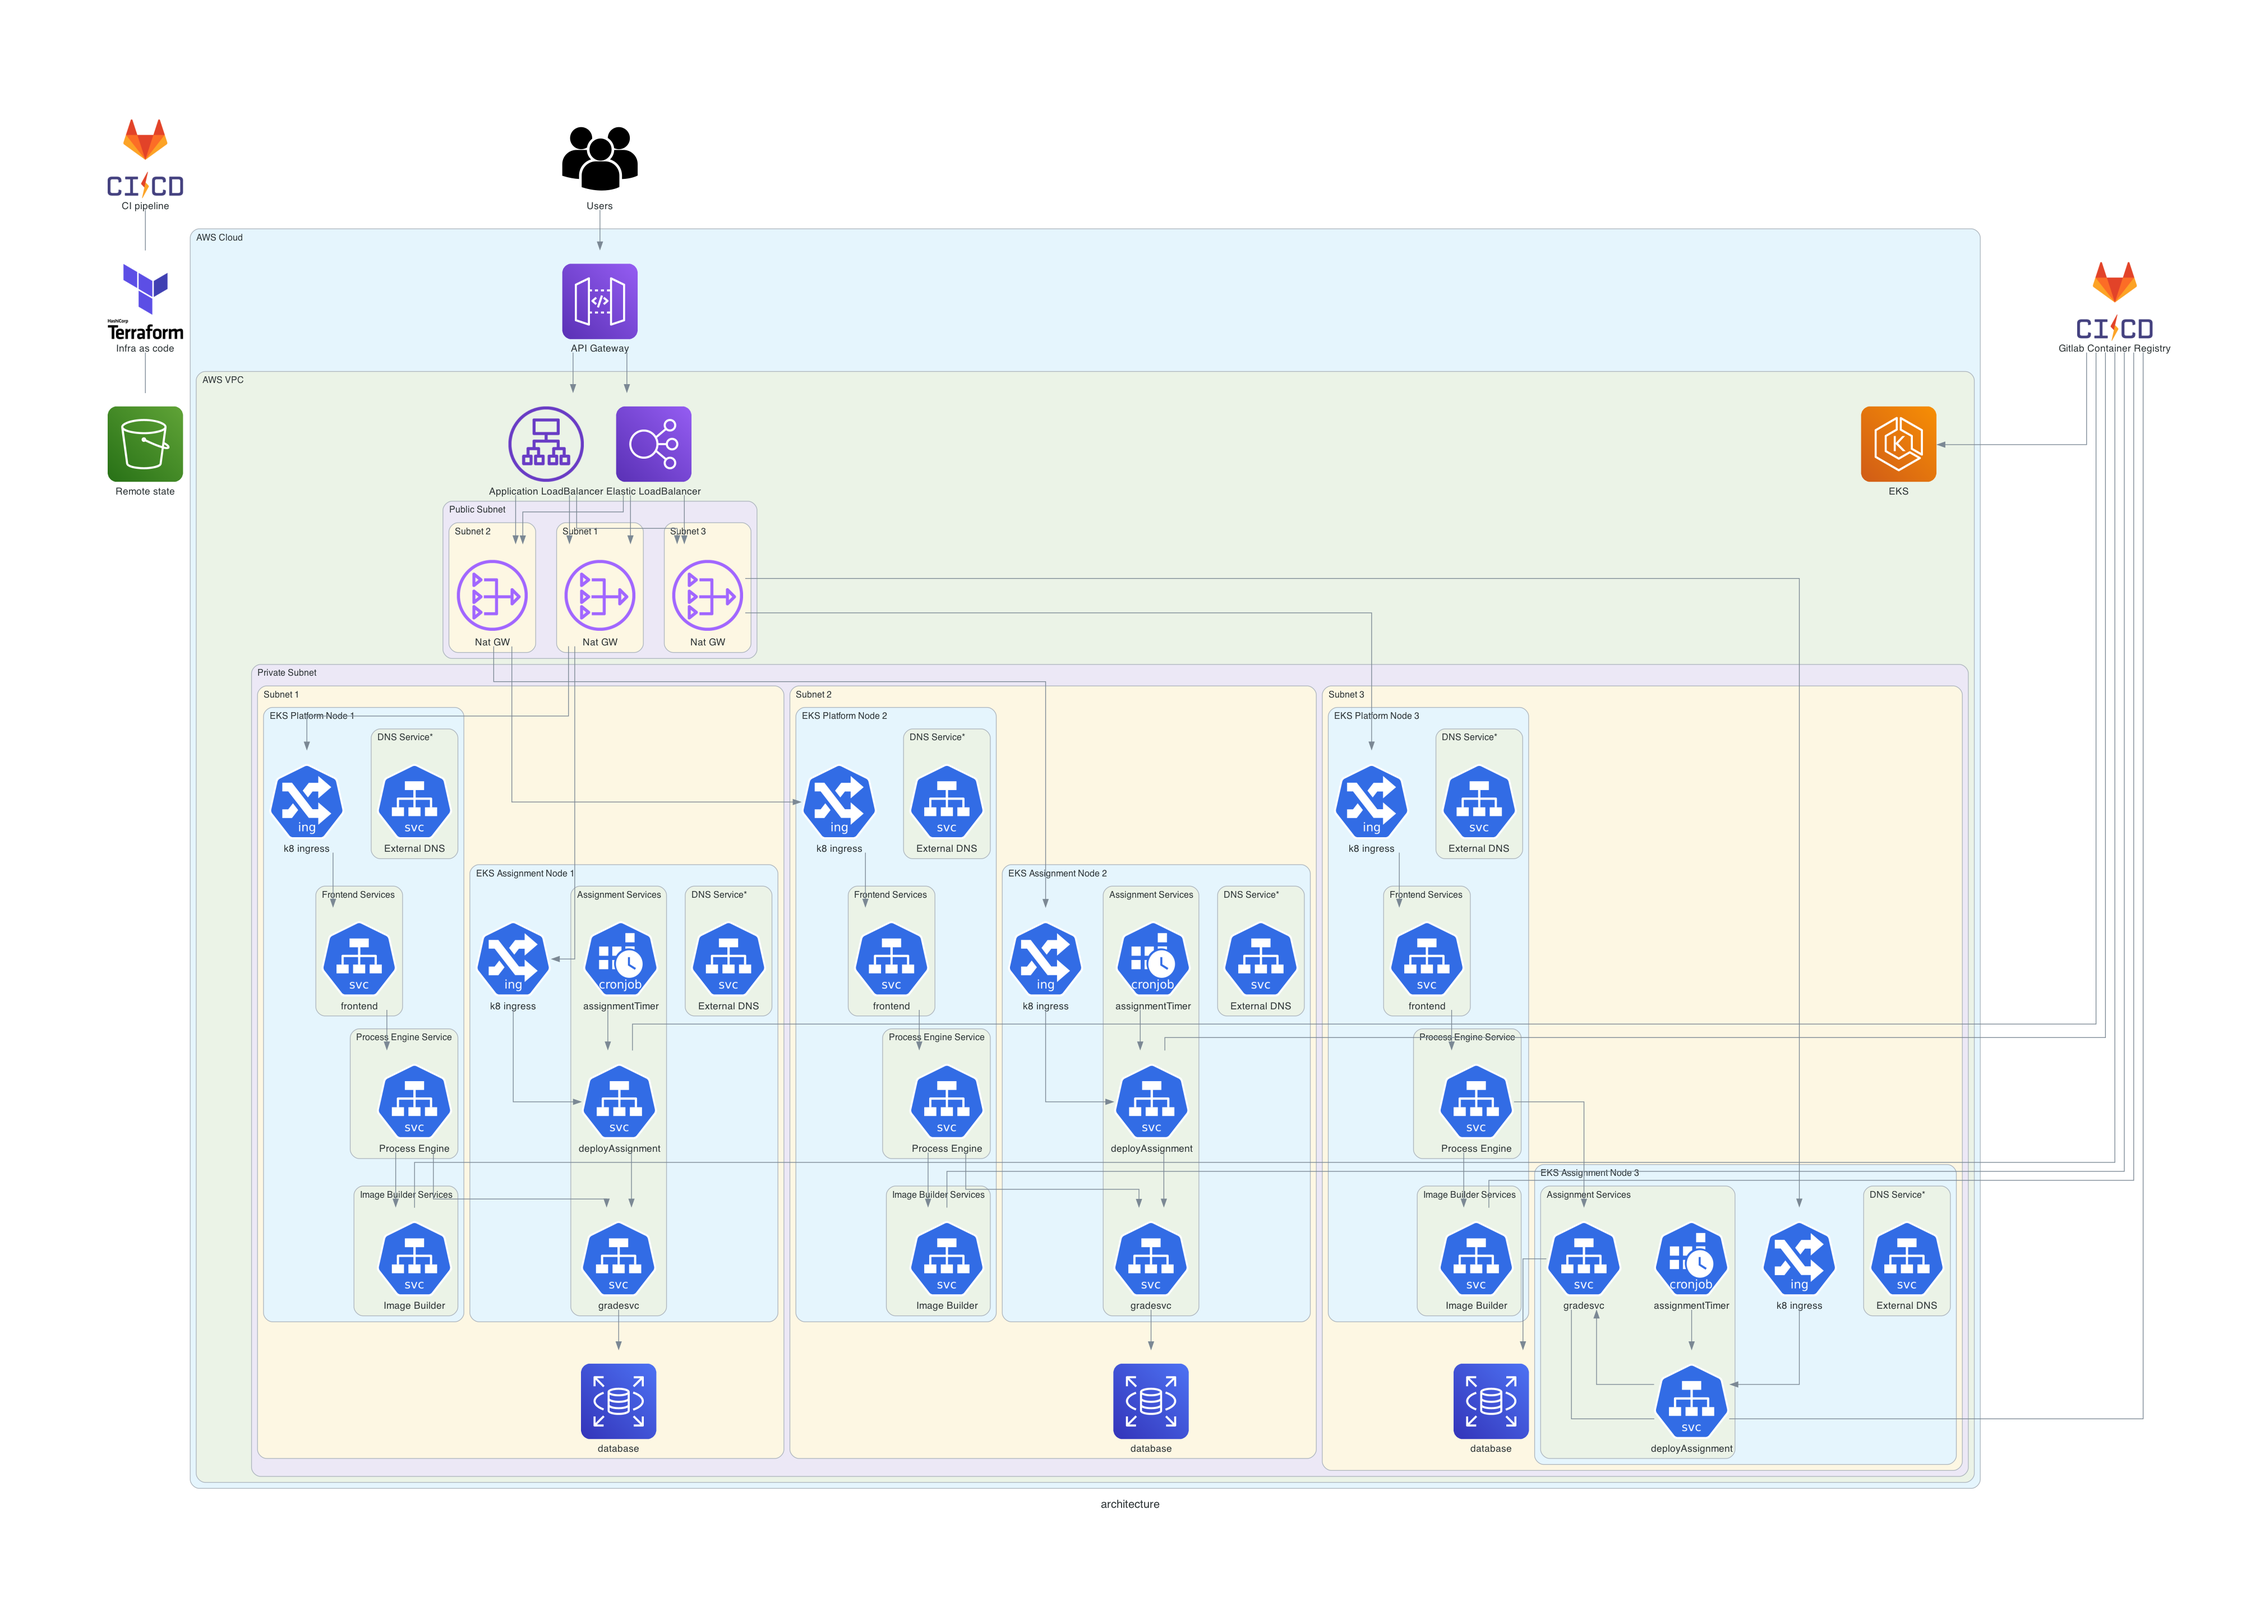
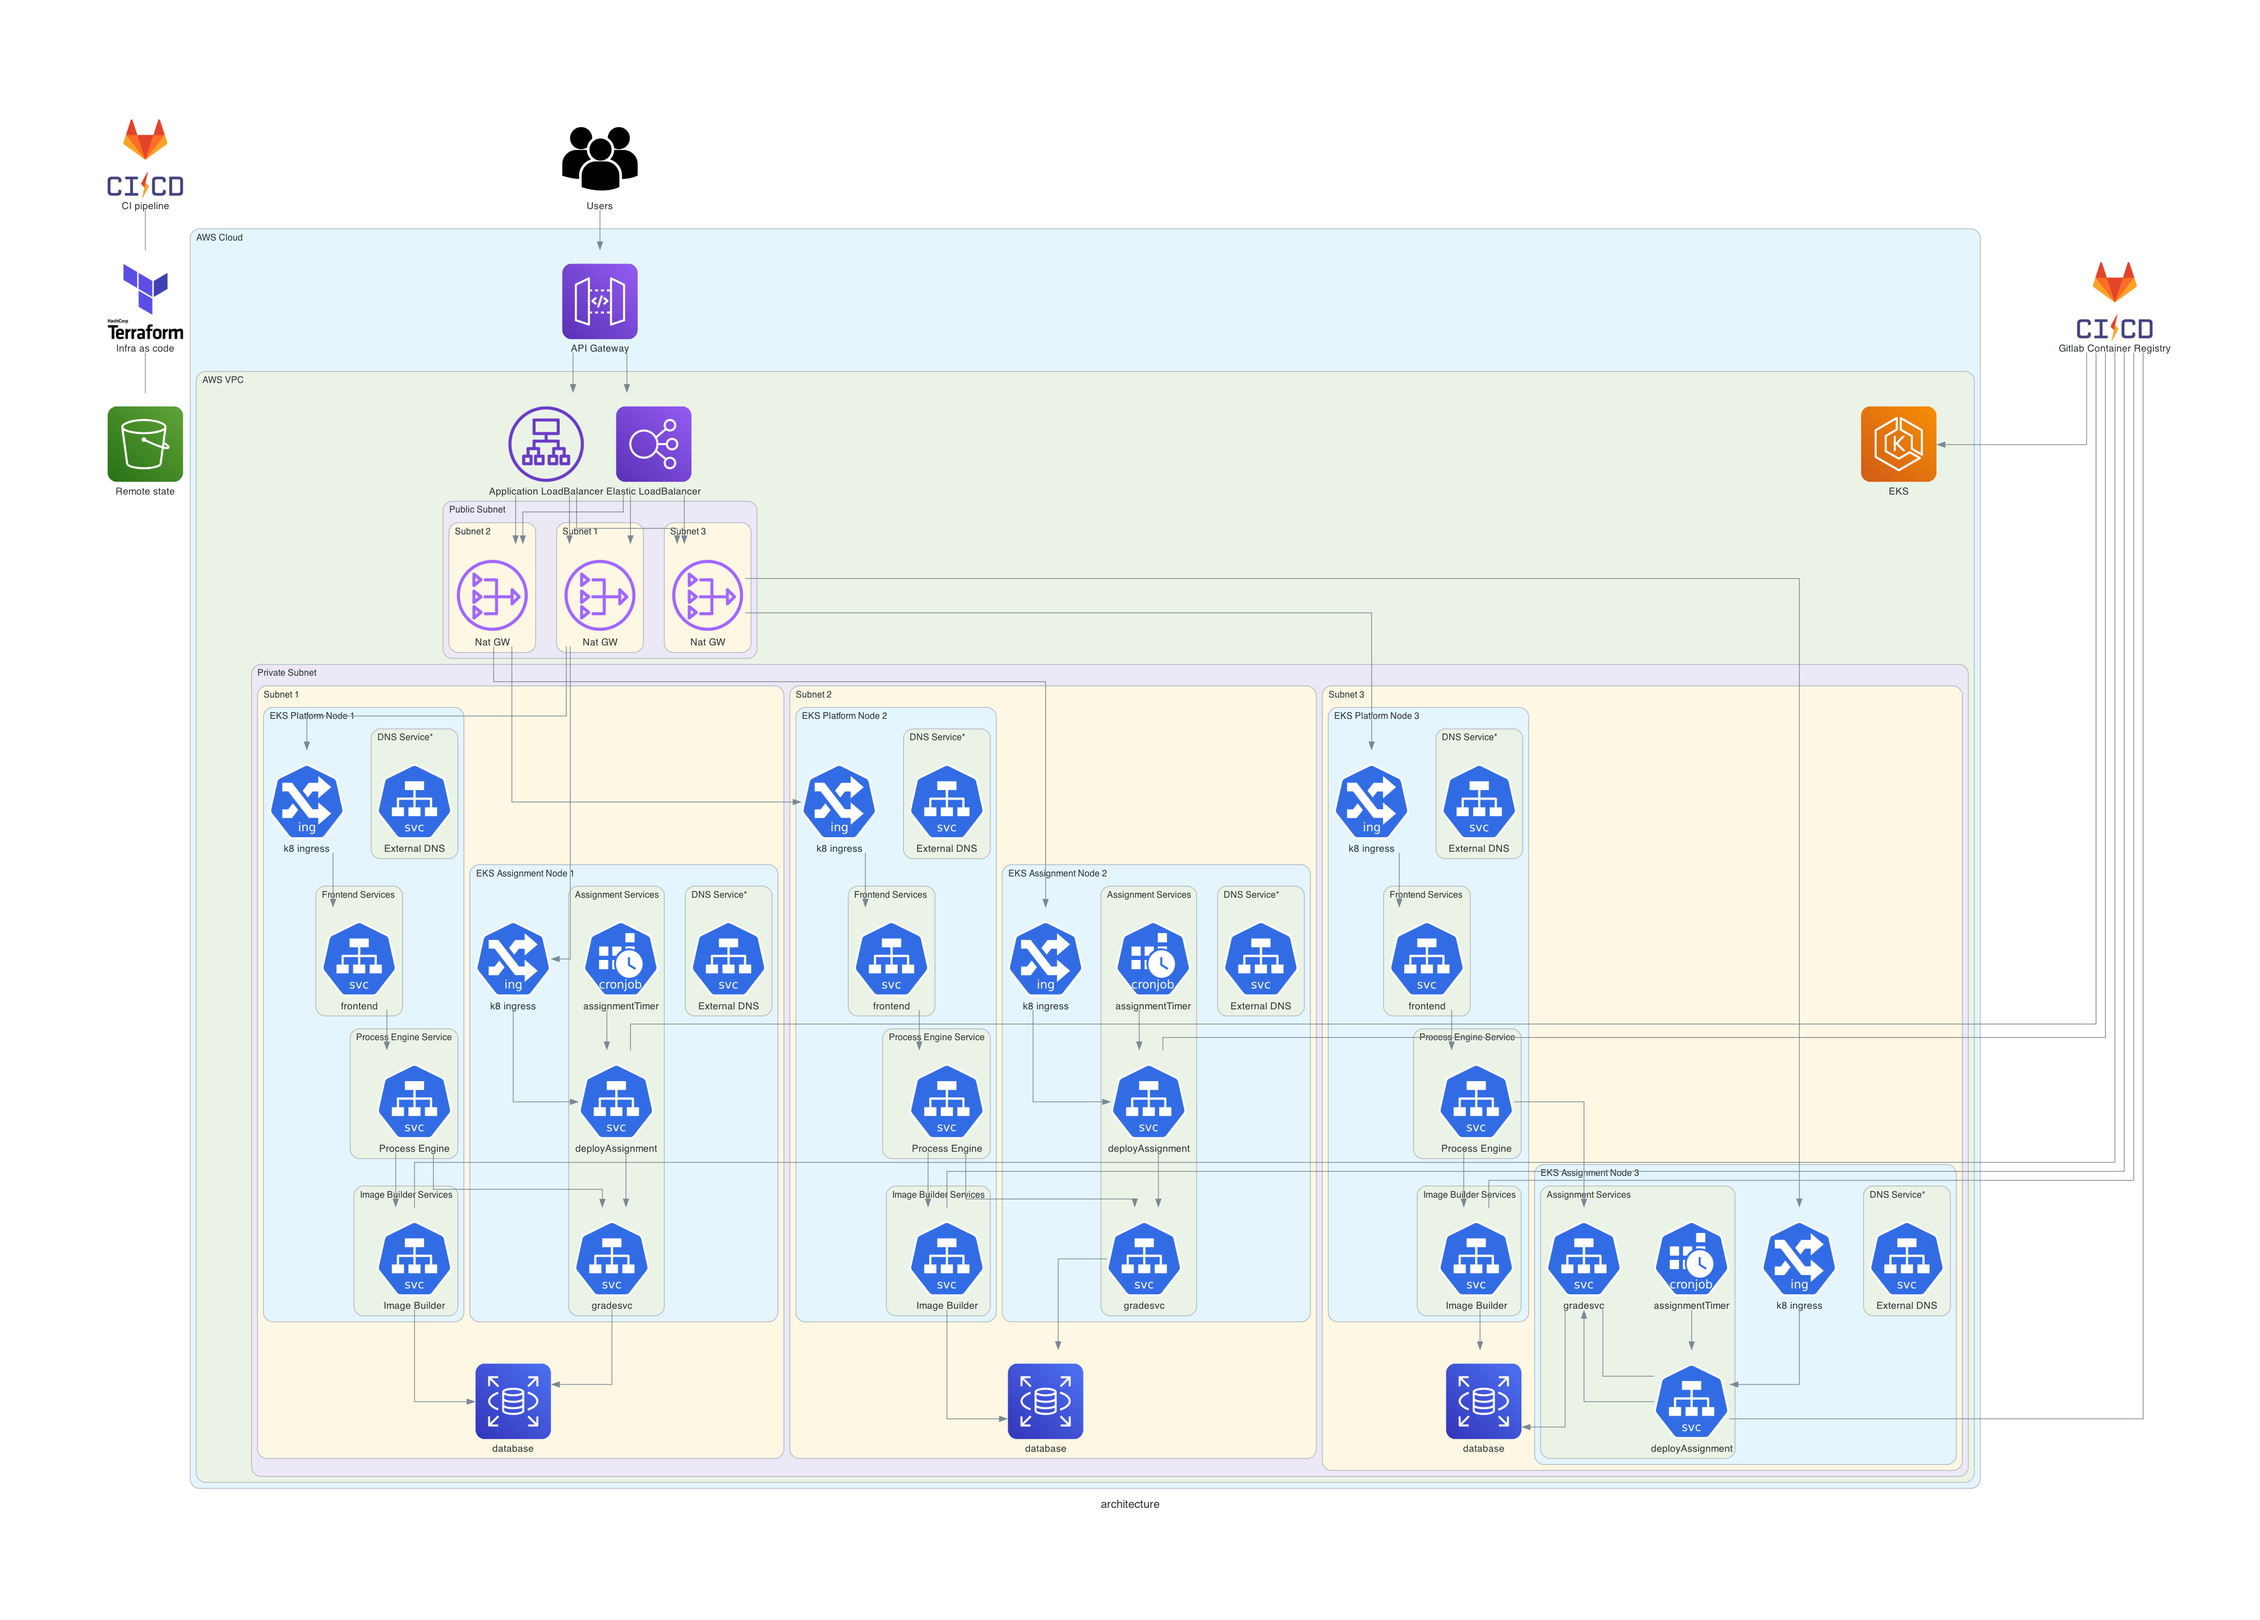
feat: archi v3

diff --git a/architecture.py b/architecture.py
@@ -86,7 +86,7 @@ with Diagram("architecture", show=False, direction="TB"):
                             # process_engine_service - auth_service >> rds
                             platform_ingress >> frontend_service
                             alb >> natgws[i-1] >> platform_ingress
-                            container_registry - image_builder_service
+                            container_registry - image_builder_service >> rds
                             process_engine_service >> image_builder_service
                             process_engine_service >> grading_service
         
